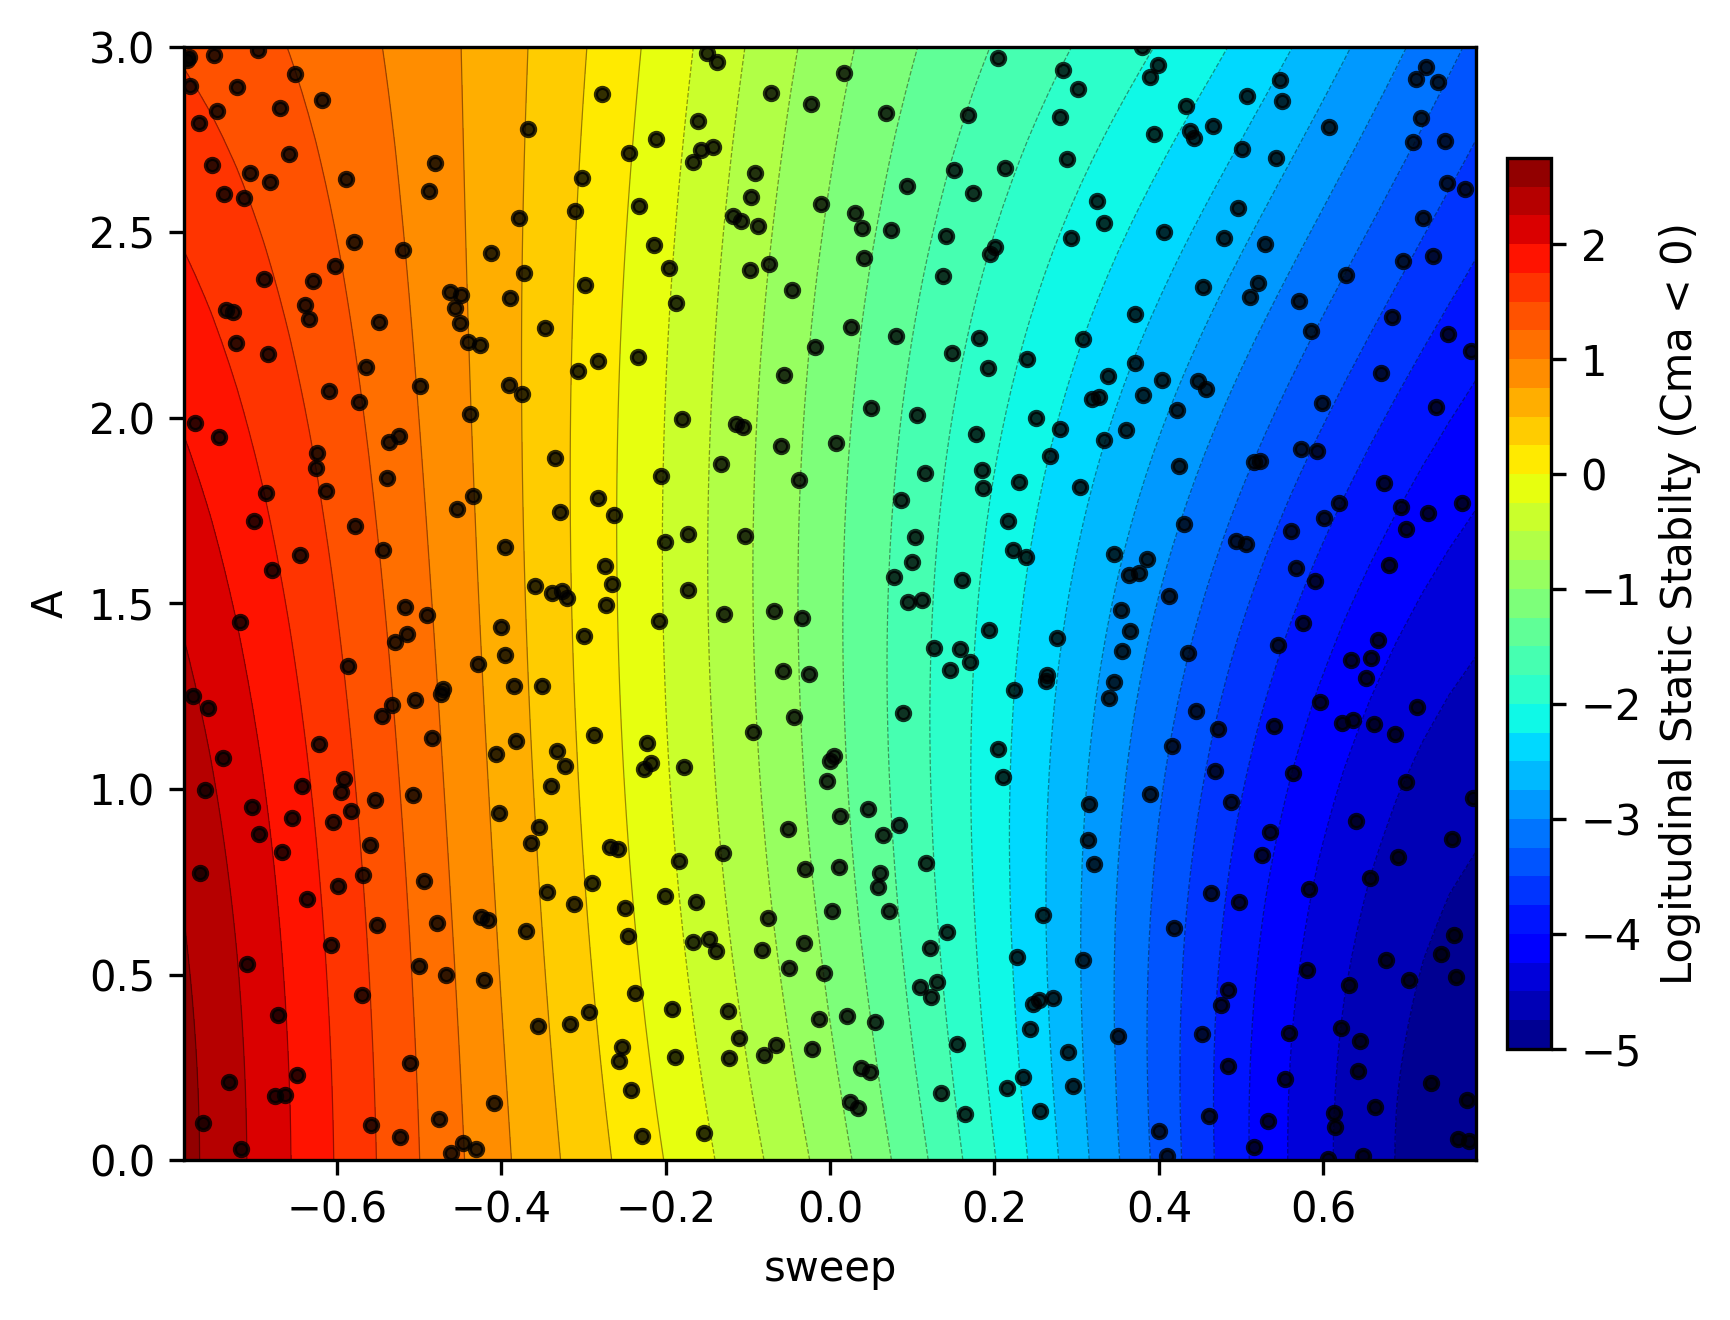
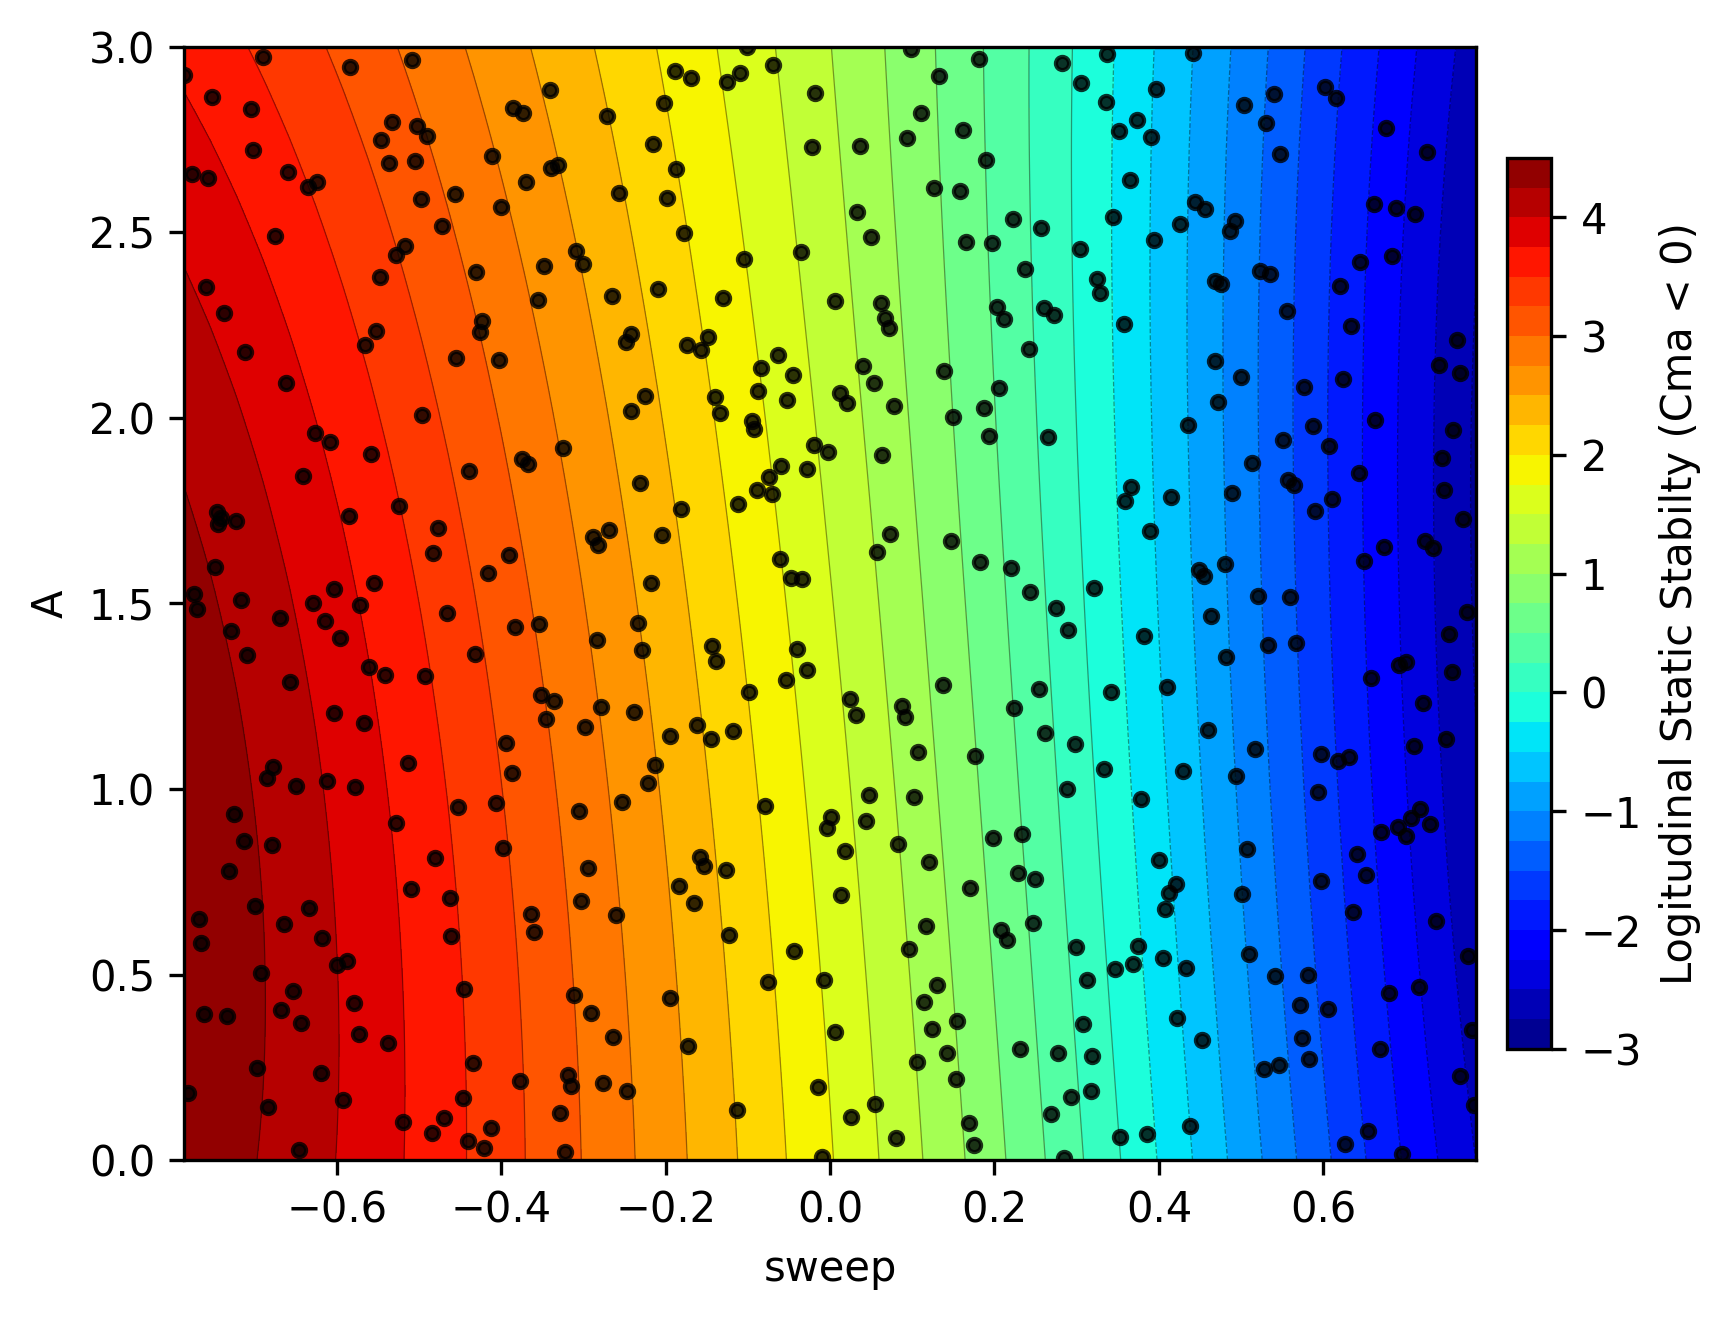
fix error in plotting points on 3D diagram (was always plotting aeroefficincy even for Cxx)

diff --git a/AeroSandbox_Testing/senstivity analysis.py b/AeroSandbox_Testing/senstivity analysis.py
@@ -90,7 +90,7 @@ length_scales = gpr_aero.kernel_.k2.length_scale
 
 param_names = ["taper_ratio", "aspect_ratio", "sweep", "root_twist", "tip_twist", "A", "c", "delta"]
 print('-' * 40)
-print("Length scales:")
+print("Length scales (Aero Efficiency):")
 for name, scale in zip(param_names, length_scales):
     print(f"  {name}: {scale:.6f}")
 
@@ -236,7 +236,7 @@ export_toggle = False
 # 5: A
 # 6: c
 # 7: delta
-param_idx = (3, 5)  # zero-based indices
+param_idx = (2, 6)  # zero-based indices
 grid_res = 50
 
 # actual ranges for selected parameters
@@ -262,7 +262,7 @@ surf = ax.plot_surface(X_grid, Y_grid, Z_grid, cmap="jet", edgecolor="none", alp
 fig1.colorbar(surf, ax=ax, shrink=0.5, pad=0.13)
 
 # Training data points (actual parameter values)
-ax.scatter(samples_scaled[:, param_idx[0]], samples_scaled[:, param_idx[1]], aero_eff,
+ax.scatter(samples_scaled[:, param_idx[0]], samples_scaled[:, param_idx[1]], Cma,
            c="k", s=10, depthshade=True)
 
 param_labels = {i: name for i, name in enumerate(param_names)}
@@ -329,7 +329,7 @@ export_toggle = False
 # 5: A
 # 6: c
 # 7: delta
-param_idx = (3, 5)  # zero-based indices
+param_idx = (2, 1)  # zero-based indices
 grid_res = 50
 
 # actual ranges for selected parameters
@@ -355,7 +355,7 @@ surf = ax.plot_surface(X_grid, Y_grid, Z_grid, cmap="jet", edgecolor="none", alp
 fig1.colorbar(surf, ax=ax, shrink=0.5, pad=0.13)
 
 # Training data points (actual parameter values)
-ax.scatter(samples_scaled[:, param_idx[0]], samples_scaled[:, param_idx[1]], aero_eff,
+ax.scatter(samples_scaled[:, param_idx[0]], samples_scaled[:, param_idx[1]], Clb,
            c="k", s=10, depthshade=True)
 
 param_labels = {i: name for i, name in enumerate(param_names)}
